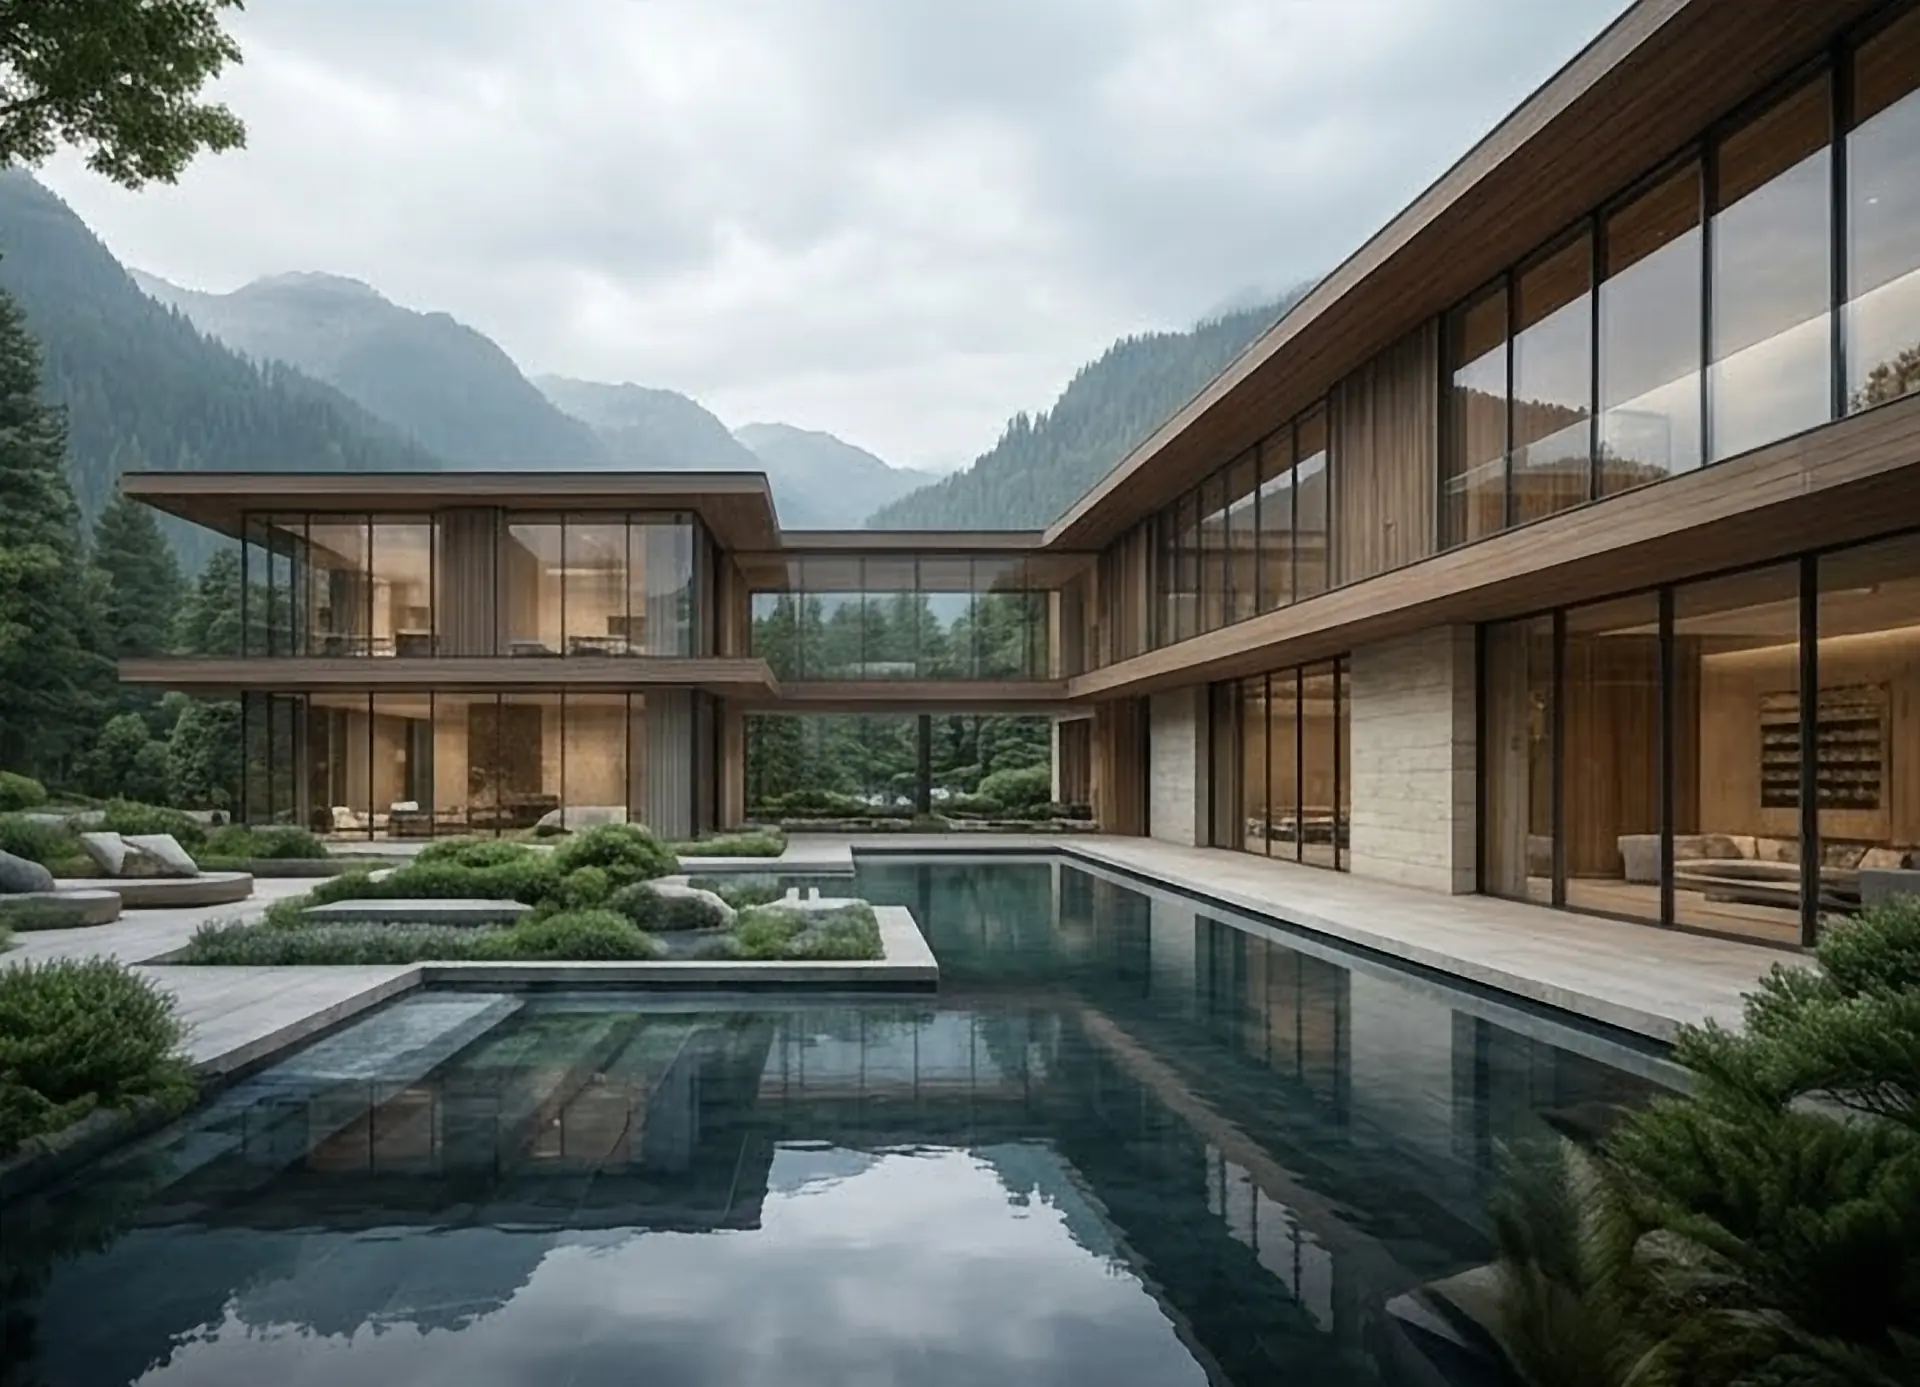
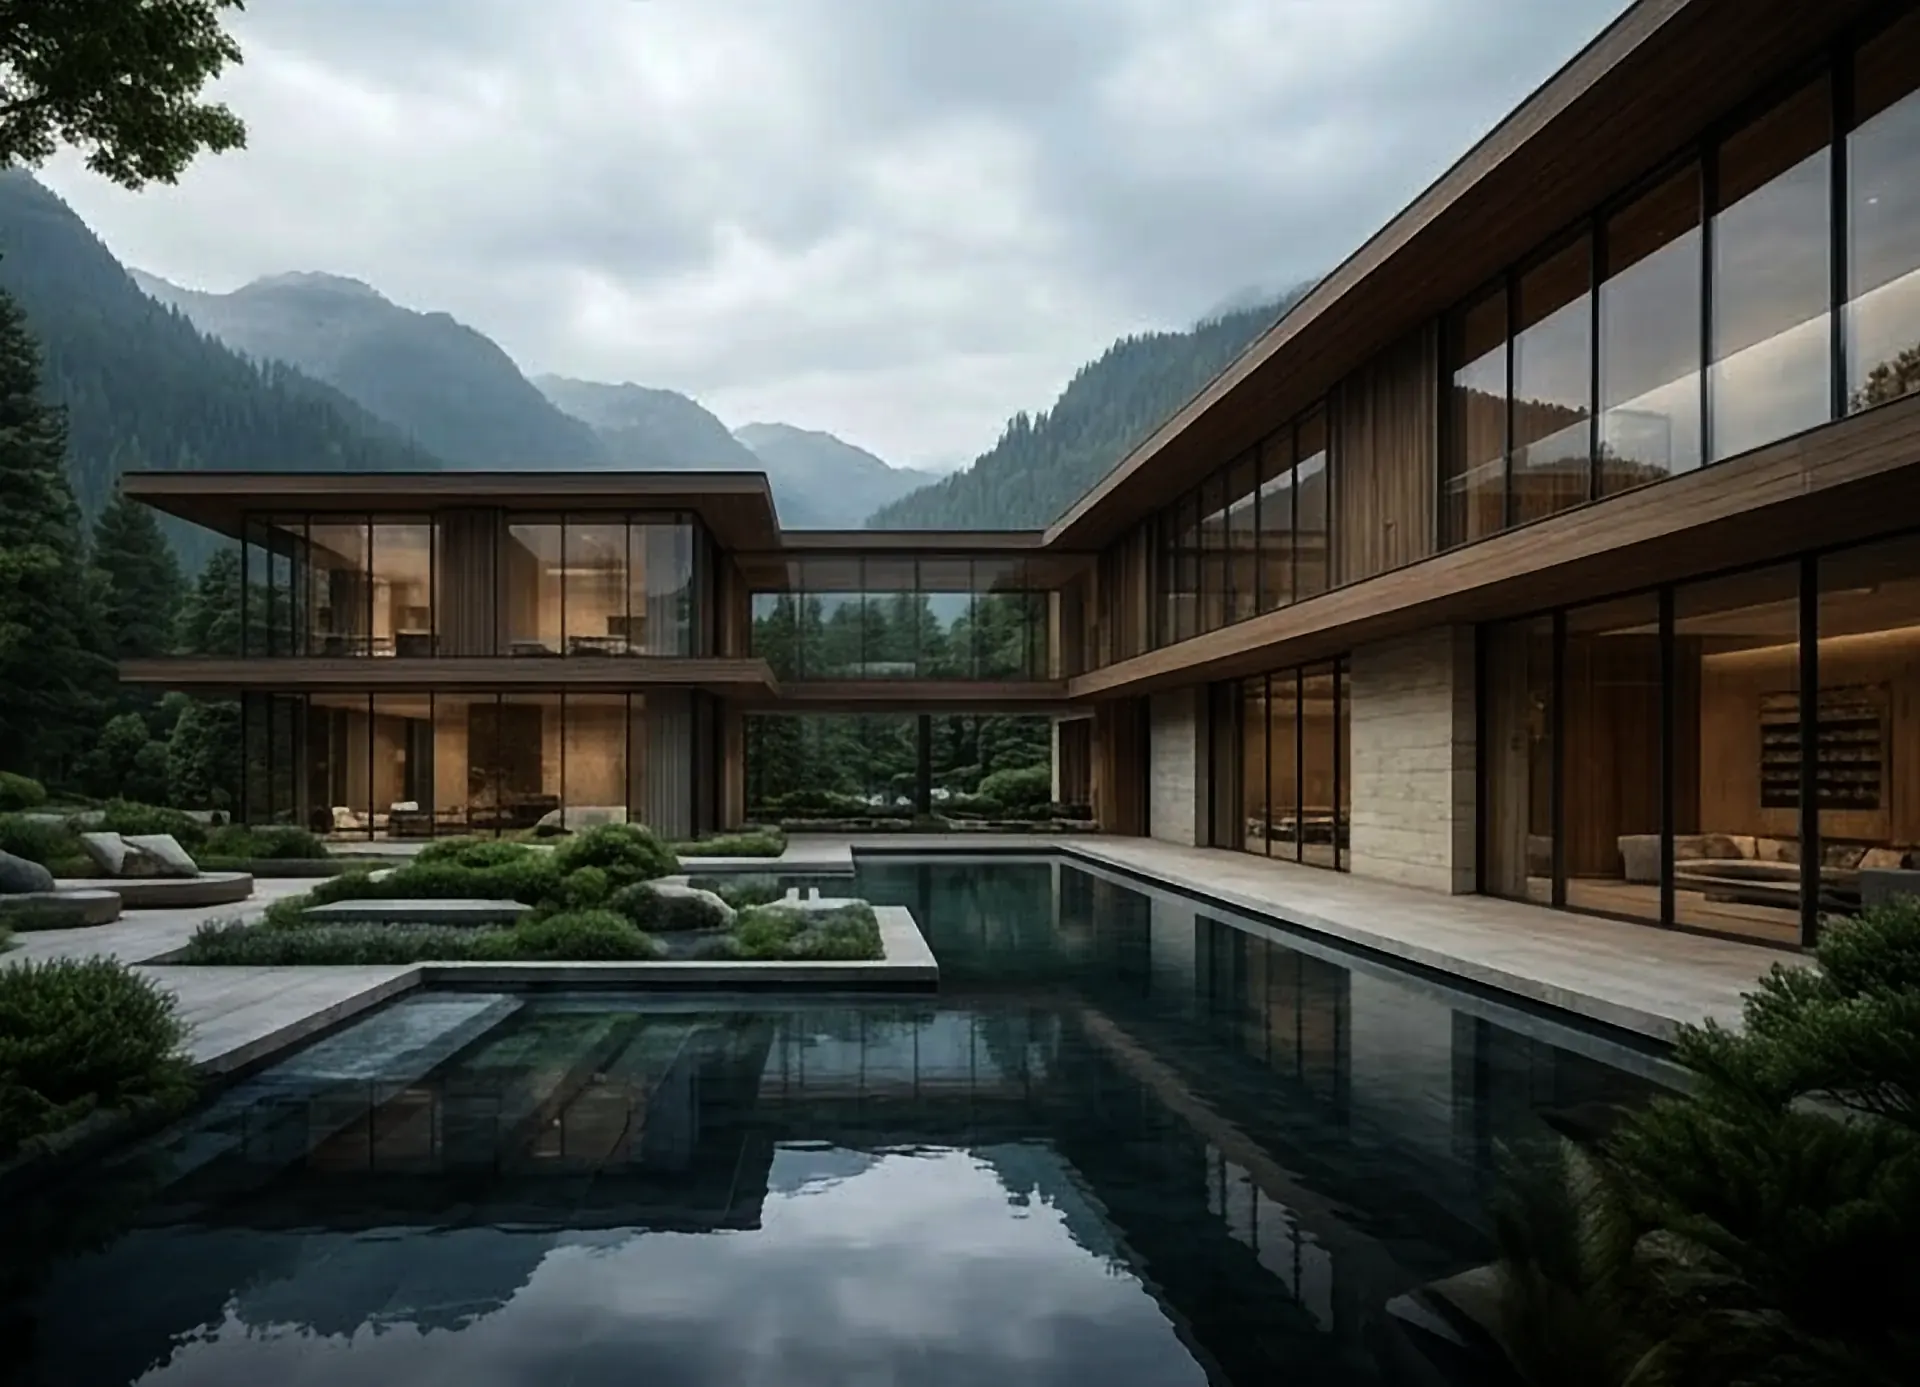
Harmonisation des fonds : luminosité uniforme, texte blanc sur toutes les rubriques
Claude-Session: https://claude.ai/code/session_01MCnGRLaX8PXSXoo1gAch4m

diff --git a/dist/fond-aleatoire.js b/dist/fond-aleatoire.js
@@ -4,7 +4,7 @@
 (function () {
   try {
     var fonds = ["accompagnement-appels-offres", "bodacc-veille-entreprises", "developpement-commercial", "facturation-electronique", "intelligence-economique", "marches-prives", "marches-publics", "prospection-crm", "reputation-virtuelle", "reseau-synergies", "salons-seminaires", "sous-traitance", "suivi-commercial", "veille-marches", "ville-crepuscule", "falaise-phare", "montagnes-aurore", "salle-conseil-panorama"];
-    var clairs = { "reseau-synergies": 1, "veille-marches": 1 }; // images claires : texte sombre à contour blanc
+    var clairs = {}; // images claires : texte sombre à contour blanc
     var dernier = ""; try { dernier = sessionStorage.getItem("mj-fond") || ""; } catch (e) {}
     var choix; do { choix = fonds[Math.floor(Math.random() * fonds.length)]; } while (choix === dernier && fonds.length > 1);
     try { sessionStorage.setItem("mj-fond", choix); } catch (e) {}

diff --git a/fond-aleatoire.js b/fond-aleatoire.js
@@ -4,7 +4,7 @@
 (function () {
   try {
     var fonds = ["accompagnement-appels-offres", "bodacc-veille-entreprises", "developpement-commercial", "facturation-electronique", "intelligence-economique", "marches-prives", "marches-publics", "prospection-crm", "reputation-virtuelle", "reseau-synergies", "salons-seminaires", "sous-traitance", "suivi-commercial", "veille-marches", "ville-crepuscule", "falaise-phare", "montagnes-aurore", "salle-conseil-panorama"];
-    var clairs = { "reseau-synergies": 1, "veille-marches": 1 }; // images claires : texte sombre à contour blanc
+    var clairs = {}; // images claires : texte sombre à contour blanc
     var dernier = ""; try { dernier = sessionStorage.getItem("mj-fond") || ""; } catch (e) {}
     var choix; do { choix = fonds[Math.floor(Math.random() * fonds.length)]; } while (choix === dernier && fonds.length > 1);
     try { sessionStorage.setItem("mj-fond", choix); } catch (e) {}

diff --git a/docs/evolution-10/CHARTE-CLAIRE-PALETTE-4-2026-11-15.md b/docs/evolution-10/CHARTE-CLAIRE-PALETTE-4-2026-11-15.md
@@ -157,3 +157,6 @@ Décision propriétaire : les nouveaux fonds d'écran déposés dans le dépôt 
 
 ## Nouveaux fonds ajoutés (2026-11-16)
 Quatre images du propriétaire (back13, 14, 15, 16) ajoutées au tirage aléatoire : ville-crepuscule, falaise-phare, montagnes-aurore, salle-conseil-panorama (1920 px, WebP). Non retenues : back17 (texte « RIVERSIDE TOWER » incrusté), back18 et back19 (doublons basse résolution de back16/back17). Retour arrière : retirer ces 4 noms de `fond-aleatoire.js` et de `site-files.json`.
+
+## Harmonisation des fonds (2026-11-16)
+Luminosité des fonds uniformisée (zone de texte ramenée vers ~0,44 par une correction douce de type gamma ; images déjà sombres inchangées ; réseau-synergies un peu plus lumineuse pour garder du détail). Le mode « texte sombre » n'est plus utilisé (`clairs` vide dans `fond-aleatoire.js`) : police blanche et liens dorés identiques sur toutes les rubriques. Liens contrôlés : 43 pages, 90 liens locaux distincts, aucun cassé (l'ancre `#creation` est gérée par script). Retour arrière : restaurer les anciens WebP depuis l'historique Git.
